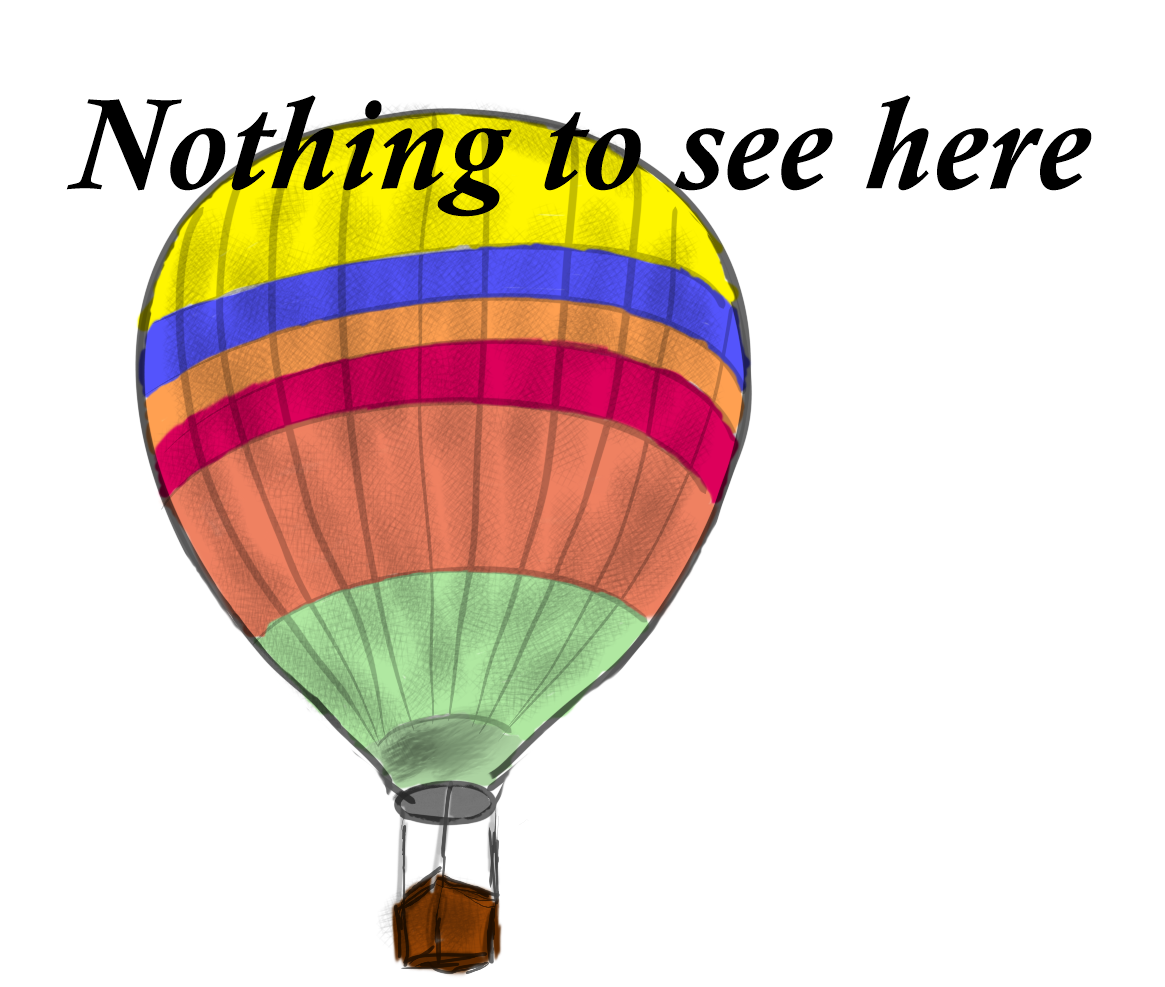
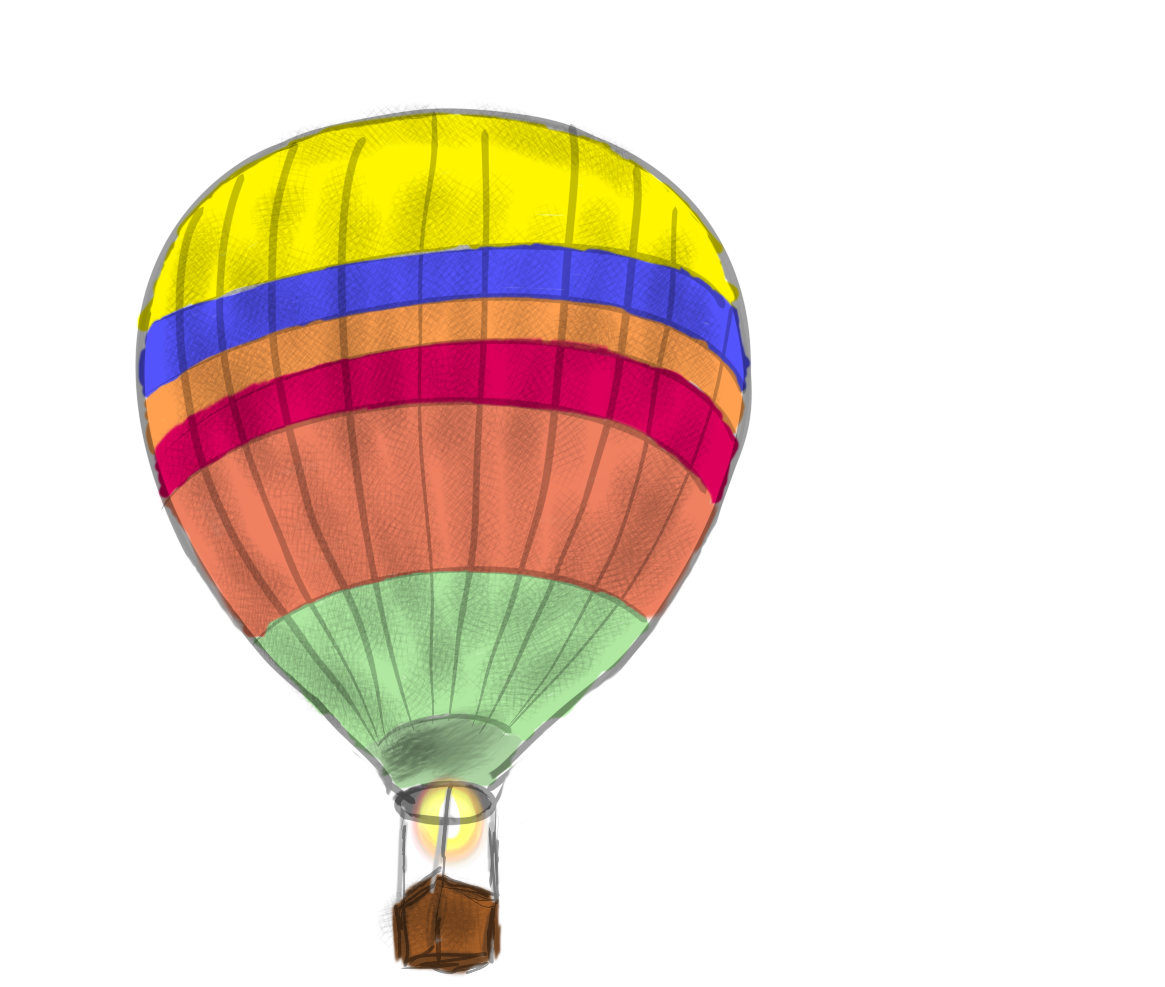
Pre-release candidate

diff --git a/lib/presentation/arrivalsMainPage.dart b/lib/presentation/arrivalsMainPage.dart
@@ -16,10 +16,12 @@ import 'package:tokbusarrival/bloc/stopsHiveBloc.dart';
 import 'package:tokbusarrival/bloc/stopsHiveEvent.dart';
 import 'package:tokbusarrival/bloc/stopsHiveState.dart';
 import 'package:tokbusarrival/cubit/bookMarkCubit.dart';
+import 'package:tokbusarrival/utility/constants.dart';
 import 'package:tokbusarrival/utility/utility.dart';
 import 'package:tokbusarrival/widget/SayDigitsSnackBar.dart';
 import 'package:tokbusarrival/widget/bookMarkPageView.dart';
 import 'package:tokbusarrival/widget/cannotGetNearbyBusStopSnackBar%20copy.dart';
+import 'package:tokbusarrival/widget/floatingHotAirAnimatedImage.dart';
 import 'package:tokbusarrival/widget/locationNASnackBar.dart';
 import 'package:tokbusarrival/widget/minuteTag.dart';
 import 'package:tokbusarrival/widget/operatorBusTypeColorIcon.dart';
@@ -44,22 +46,33 @@ class ArrivalsMainPage extends StatefulWidget {
   _ArrivalsMainPageState createState() => _ArrivalsMainPageState();
 }
 
-class _ArrivalsMainPageState extends State<ArrivalsMainPage> {
+class _ArrivalsMainPageState extends State<ArrivalsMainPage>
+    with WidgetsBindingObserver {
   SpeechToText _speechToText = SpeechToText();
   bool _speechEnabled = false;
   bool _isSpeechListening = false;
   bool _isBusStopDBLoaded = false;
-  String _busStopDescription = "";
+  String _busStopDescription = HINTBUSTEXTFIELD;
 
   TextEditingController _textEditingController = TextEditingController();
 
   @override
   void initState() {
     super.initState();
+    WidgetsBinding.instance?.addObserver(this);
     initializeDateFormatting('en_SG', null);
     _enableSpeech();
     //Prepare Bus Stop Hive
     context.read<StopsHiveBloc>().add(StopsHiveCheckLoadedEvent());
+  }
+
+  @override
+  void didChangeAppLifecycleState(AppLifecycleState state) {
+    super.didChangeAppLifecycleState(state);
+
+    if (state == AppLifecycleState.paused) {
+      context.read<SpeechReadingBloc>().getTts.stop();
+    }
   }
 
   void _enableSpeech() async {
@@ -118,9 +131,9 @@ class _ArrivalsMainPageState extends State<ArrivalsMainPage> {
       if (busStopDesc != null) {
         _busStopDescription = "$busStopDesc along $busStopRoadName";
       } else
-        _busStopDescription = "";
+        _busStopDescription = HINTBUSTEXTFIELD;
     } else
-      _busStopDescription = "";
+      _busStopDescription = HINTBUSTEXTFIELD;
 
     setState(() {}); //for _busStopDescription
   }
@@ -355,6 +368,7 @@ class _ArrivalsMainPageState extends State<ArrivalsMainPage> {
             textAlign: TextAlign.left,
           ),
         ),
+        const SizedBox(height: 8.0),
         Row(
           children: [
             const SizedBox(width: 8.0),
@@ -367,7 +381,7 @@ class _ArrivalsMainPageState extends State<ArrivalsMainPage> {
                     decoration: InputDecoration(
                       counterText: "", //don't show e.g. 0/5
                       filled: true,
-                      fillColor: Colors.lightGreen[50],
+                      fillColor: Colors.lightBlue[100],
                       border: OutlineInputBorder(
                           borderSide: BorderSide.none,
                           borderRadius: BorderRadius.circular(30)),
@@ -377,7 +391,7 @@ class _ArrivalsMainPageState extends State<ArrivalsMainPage> {
                           _onCodeSubmitted(_textEditingController.value.text);
                         },
                       ),
-                      hintText: "5 digit bus stop code e.g. 65209",
+                      // hintText: "5 digit bus stop code e.g. 65209",
                       // label: Text(
                       //   _busStopDescription,
                       //   overflow: TextOverflow.ellipsis,
@@ -413,7 +427,6 @@ class _ArrivalsMainPageState extends State<ArrivalsMainPage> {
 
     return SafeArea(
       child: Scaffold(
-        backgroundColor: Colors.lightGreen[50],
         resizeToAvoidBottomInset:
             false, //avoid scaffold content resize and overflow at bottom when keyboard is out
         appBar: AppBar(
@@ -436,8 +449,9 @@ class _ArrivalsMainPageState extends State<ArrivalsMainPage> {
         ),
         floatingActionButton: _speechEnabled
             ? FloatingActionButton(
-                backgroundColor:
-                    _isSpeechListening ? Colors.green.withAlpha(145) : null,
+                backgroundColor: _isSpeechListening
+                    ? Colors.amber
+                    : Colors.amber.withAlpha(150),
                 child: Icon(_isSpeechListening ? Icons.mic : Icons.mic_off),
                 onPressed: () async {
                   //stop any speech annoucements so as not to
@@ -539,10 +553,15 @@ class _ArrivalsMainPageState extends State<ArrivalsMainPage> {
                               resultWidget = Expanded(
                                 child: Opacity(
                                   opacity: 0.6,
-                                  child: Image.asset(
-                                    'assets/images/nothing_to_see.png',
-                                    colorBlendMode: BlendMode.colorBurn,
-                                  ),
+                                  child: Stack(children: [
+                                    FloatingHotAirAnimatedImage(),
+                                    Positioned(
+                                        top: 8.0,
+                                        left: 8.0,
+                                        child: Text("Empty like the wind...",
+                                            style: TextStyle(
+                                                fontWeight: FontWeight.bold)))
+                                  ]),
                                 ),
                               );
 
@@ -563,6 +582,7 @@ class _ArrivalsMainPageState extends State<ArrivalsMainPage> {
   void dispose() {
     _textEditingController.dispose();
     context.read<SpeechReadingBloc>().add(SpeechStopReadingEvent());
+    WidgetsBinding.instance?.removeObserver(this);
     super.dispose();
   }
 }

diff --git a/lib/widget/floatingHotAirAnimatedImage.dart b/lib/widget/floatingHotAirAnimatedImage.dart
@@ -1,0 +1,58 @@
+import 'dart:math';
+
+import 'package:flutter/material.dart';
+
+class FloatingHotAirAnimatedImage extends StatefulWidget {
+  static String assetPathForType() {
+    return "./assets/images/nothing_to_see.png";
+  }
+
+  const FloatingHotAirAnimatedImage({Key? key}) : super(key: key);
+
+  @override
+  _FloatingHotAirAnimatedImageState createState() =>
+      _FloatingHotAirAnimatedImageState();
+}
+
+class _FloatingHotAirAnimatedImageState
+    extends State<FloatingHotAirAnimatedImage>
+    with SingleTickerProviderStateMixin {
+  late AnimationController _animationController;
+
+  @override
+  void initState() {
+    super.initState();
+    const period = 5; //period in seconds for Sine
+    _animationController = AnimationController(
+        vsync: this, duration: Duration(milliseconds: period * 1000))
+      ..repeat(reverse: true);
+  }
+
+  @override
+  Widget build(BuildContext context) {
+    return Container(
+      child: Stack(
+        children: [
+          AnimatedBuilder(
+              animation: _animationController,
+              builder: (builderContext, child) {
+                return Transform.translate(
+                    offset: Offset(5 * cos(2 * pi * _animationController.value),
+                        10 * sin(2 * pi * _animationController.value)),
+                    child: child);
+              },
+              child:
+                  Image.asset(FloatingHotAirAnimatedImage.assetPathForType())),
+          Image.asset('assets/images/nothing_to_see_cloud.png')
+        ],
+      ),
+    );
+  }
+
+  @override
+  void dispose() {
+    _animationController.stop();
+    _animationController.dispose();
+    super.dispose();
+  }
+}

diff --git a/lib/main.dart b/lib/main.dart
@@ -16,6 +16,7 @@ import 'package:tokbusarrival/hive/StopsAdapter.dart';
 import 'package:tokbusarrival/presentation/arrivalsMainPage.dart';
 import 'package:tokbusarrival/presentation/speechSettingsPage.dart';
 import 'package:tokbusarrival/presentation/tutorialPage.dart';
+import 'package:tokbusarrival/utility/utility.dart';
 
 import 'presentation/cameraPage.dart';
 import 'package:path/path.dart' as ppath;
@@ -80,17 +81,7 @@ class MyApp extends StatelessWidget {
       child: MaterialApp(
         debugShowCheckedModeBanner: false,
         title: 'Tok Bus Arrival',
-        theme: ThemeData(
-            // This is the theme of your application.
-            //
-            // Try running your application with "flutter run". You'll see the
-            // application has a blue toolbar. Then, without quitting the app, try
-            // changing the primarySwatch below to Colors.green and then invoke
-            // "hot reload" (press "r" in the console where you ran "flutter run",
-            // or simply save your changes to "hot reload" in a Flutter IDE).
-            // Notice that the counter didn't reset back to zero; the application
-            // is not restarted.
-            primarySwatch: Colors.lightGreen),
+        theme: Utility.getAppThemeData(),
         routes: {
           '/': (_) => MultiBlocProvider(
                 providers: [

diff --git a/lib/utility/utility.dart b/lib/utility/utility.dart
@@ -1,4 +1,5 @@
 import 'package:geolocator/geolocator.dart';
+import 'package:flutter/material.dart';
 
 enum LocationPermissionErrors {
   denied,
@@ -36,5 +37,11 @@ class Utility {
     }
     // we have permission at first try, so let's get the position
     return await Geolocator.getCurrentPosition();
+  }
+
+  static ThemeData getAppThemeData() {
+    return ThemeData(
+        scaffoldBackgroundColor: Colors.lightBlue[100],
+        colorScheme: ColorScheme.fromSwatch(primarySwatch: Colors.amber));
   }
 }

diff --git a/lib/presentation/speechSettingsPage.dart b/lib/presentation/speechSettingsPage.dart
@@ -63,6 +63,7 @@ class _SpeechSettingsPageState extends State<SpeechSettingsPage> {
             child: BlocConsumer<SpeechMuteCubit, bool>(
               builder: (ctx, state) {
                 return SwitchListTile(
+                    activeColor: Colors.amber,
                     title: Text("Mute Speech"),
                     value: state,
                     onChanged: (value) {

diff --git a/lib/utility/constants.dart b/lib/utility/constants.dart
@@ -1,0 +1,1 @@
+const String HINTBUSTEXTFIELD = "5 digit bus stop code e.g. 65209";
